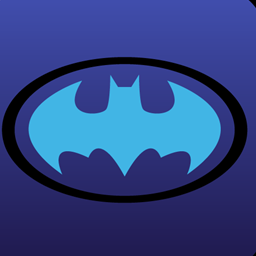
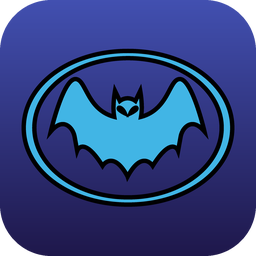
Nuove immagini per home, card e miniature; fascia piu' scura sotto i pulsanti
- Nuovo sfondo della home
- Card risultato per tutti e cinque i profili (prima c'era solo Wonder Woman)
- Miniature degli eroi ritagliate dalla nuova striscia
- Velo dietro ai pulsanti del risultato piu' scuro e piu' alto, cosi'
  il testo della card non si legge sotto i comandi

diff --git a/src/styles.css b/src/styles.css
@@ -512,10 +512,12 @@ button { font: inherit; color: inherit; cursor: pointer; }
 .risultato__azioni::before {
   content: '';
   position: absolute;
-  inset: -28px -24px -40px;
+  /* il primo valore è quanto sale sopra i pulsanti; l'ultimo alfa (0.97) è
+     quanto scurisce: abbassali se la carta deve vedersi di più */
+  inset: -100px -24px -40px;
   z-index: -1;
   pointer-events: none;
-  background: linear-gradient(to top, rgba(13, 9, 37, 0.88) 55%, transparent);
+  background: linear-gradient(to top, rgba(13, 9, 37, 0.97) 60%, rgba(13, 9, 37, 0.7) 82%, transparent);
 }
 
 .azioni { display: flex; gap: 12px; width: 100%; }
